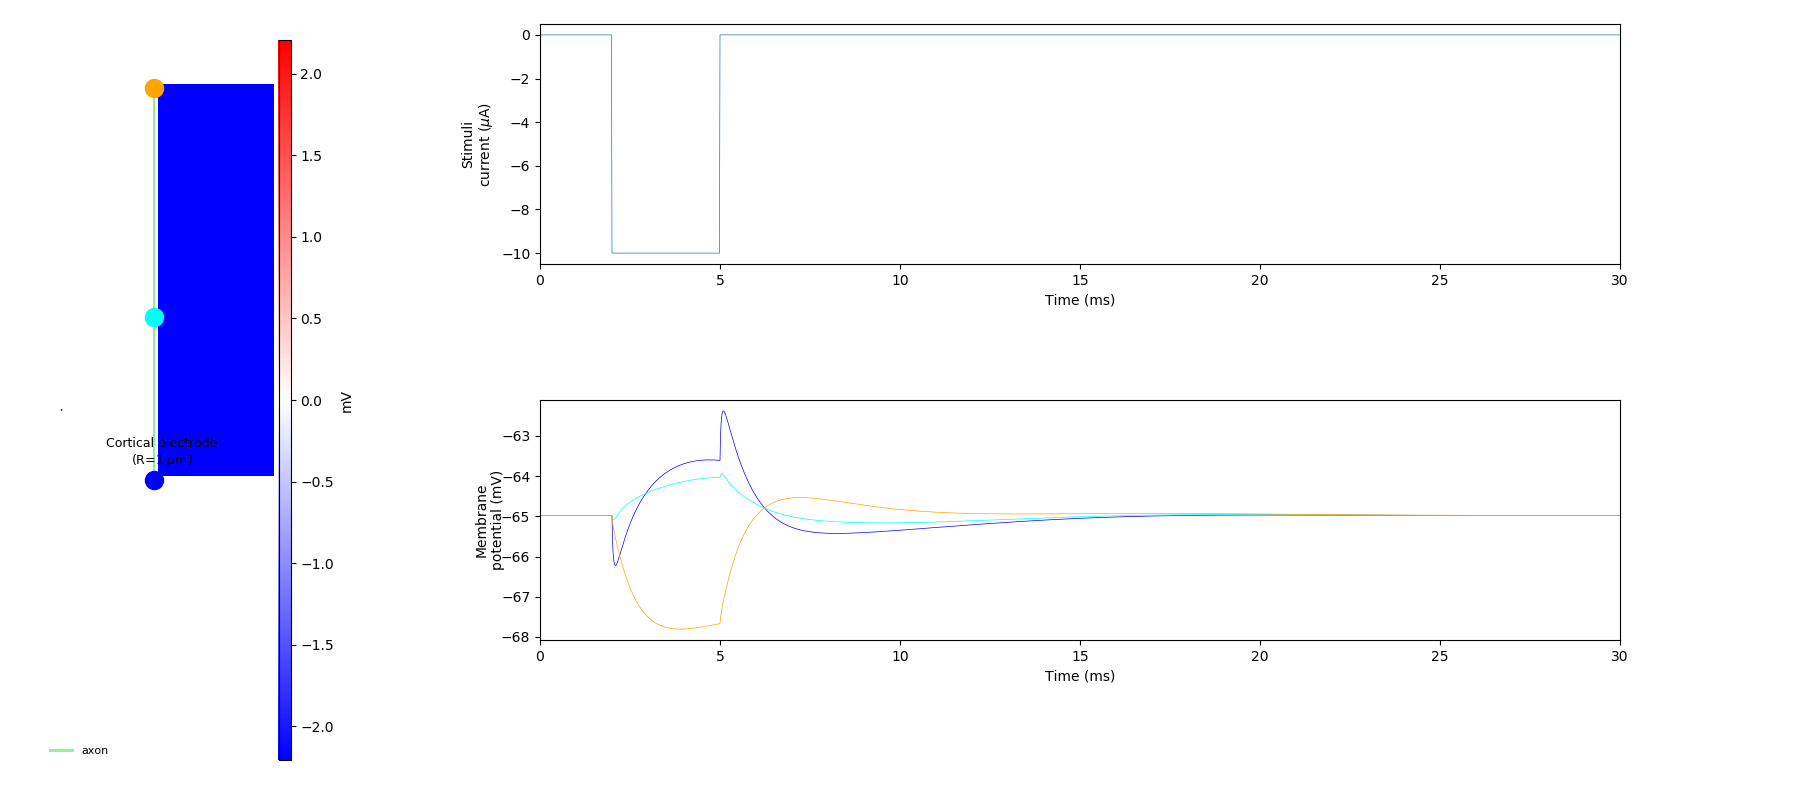
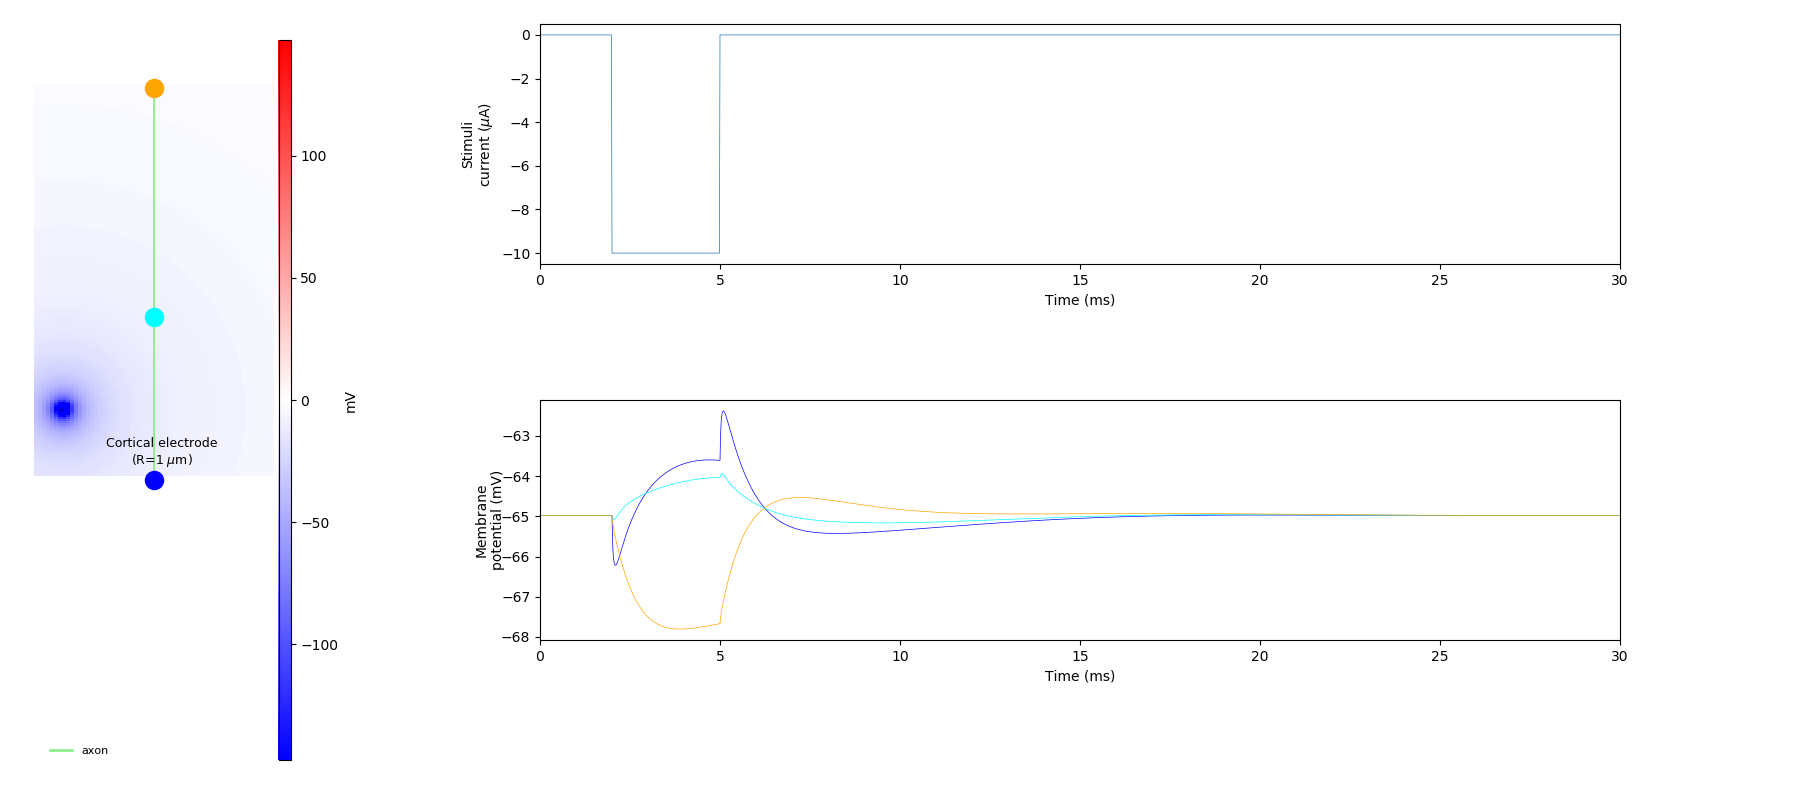
Added script to identify axial current traveling along an axon

Changed region(s): [[0.0, 0.0938, 0.1556, 0.5938]]

diff --git a/main.py b/main.py
@@ -144,7 +144,7 @@ class ExternalPotentialSim:
 
         self.return_cell(cell_models_folder)
 
-        elec_abs_dists = np.zeros((len(positions), 3))
+        elec_abs_dists = np.zeros((len(positions), len(measure_idxs)))
         ss_pot = np.zeros(len(positions))
 
         # Neuron activation after cell object has been created
@@ -247,9 +247,10 @@ class ExternalPotentialSim:
                                     height=self.elec_params["electrode_radii"] / 5, fc='gray', ec='black'))
 
         # Adding external field visualization to cell morphology figure
-        v_field_ext = np.zeros((50, 200))
-        # xf = np.linspace(-500, 500, 50)
-        xf = np.linspace(np.min(self.cell.zend), np.max(self.cell.zend), 50)
+        v_field_ext = np.zeros((100, 200))
+        xf = np.linspace(-500, 500, 100)
+        # print(self.cell.xend)
+        # xf = np.linspace(np.min(self.cell.xend), np.max(self.cell.xend), 50)
         zf = np.linspace(np.min(self.cell.zend), np.max(self.cell.zend), 200)
 
         for xidx, x in enumerate(xf):
@@ -299,7 +300,7 @@ class ExternalPotentialSim:
         fig, ax = plt.subplots()
         ax.set_xlabel('Electrode Distance ($\mu m$)')
         ax.set_ylabel('Steady State Potential (mV)')
-        ax.plot(elec_abs_dists, steady_state)
+        ax.plot(elec_abs_dists, steady_state, '-o')
 
         if not os.path.isdir(self.save_folder):
             os.makedirs(self.save_folder)

diff --git a/axon_single_source_pulse.py b/axon_single_source_pulse.py
@@ -32,12 +32,12 @@ cell_models_folder = join(os.path.dirname(__file__), "cell_models")
 
 # Test parameters
 # current_amps = [1e4, -1e4, 5e3]  # uA
-positions = [np.array([[200, 0, -40], ], dtype=float),
-             np.array([[200, 0, 0], ], dtype=float),
-             np.array([[-125, 0, -880], ], dtype=float),
-             np.array([[-230, 0, 175], ], dtype=float)]
+# positions = [np.array([[200, 0, -40], ], dtype=float),
+#              np.array([[200, 0, 0], ], dtype=float),
+#              np.array([[-125, 0, -880], ], dtype=float),
+#              np.array([[-230, 0, 175], ], dtype=float)]
 current_amps = [-1e4]  # uA
-# positions = [np.array([[210, 0, 700], ], dtype=float)]
+positions = [np.array([[210, 0, 700], ], dtype=float)]
 
 axon_measure_idxs = np.array([0, 20, 48])
 

diff --git a/axial_current_sim.py b/axial_current_sim.py
@@ -1,0 +1,21 @@
+from main import ExternalPotentialSim
+from parameters import (monophasic_pulse_params, cellsim_bisc_stick_params)
+import numpy as np
+import neuron
+import matplotlib.pyplot as plt
+import matplotlib
+import LFPy
+import os
+from os.path import join
+import sys
+
+cell_models_folder = join(os.path.dirname(__file__), "cell_models")
+positions = [np.array([[0, 0, 0], ], dtype=float)]
+current_amps = [-1e4]  # uA
+
+axon_measure_idxs = np.array([0, 10, 20, 30, 48])
+
+extPotSim = ExternalPotentialSim(cellsim_bisc_stick_params)
+
+extPotSim.run_ext_sim(cell_models_folder, monophasic_pulse_params, current_amps,
+                      positions, axon_measure_idxs, 200)
